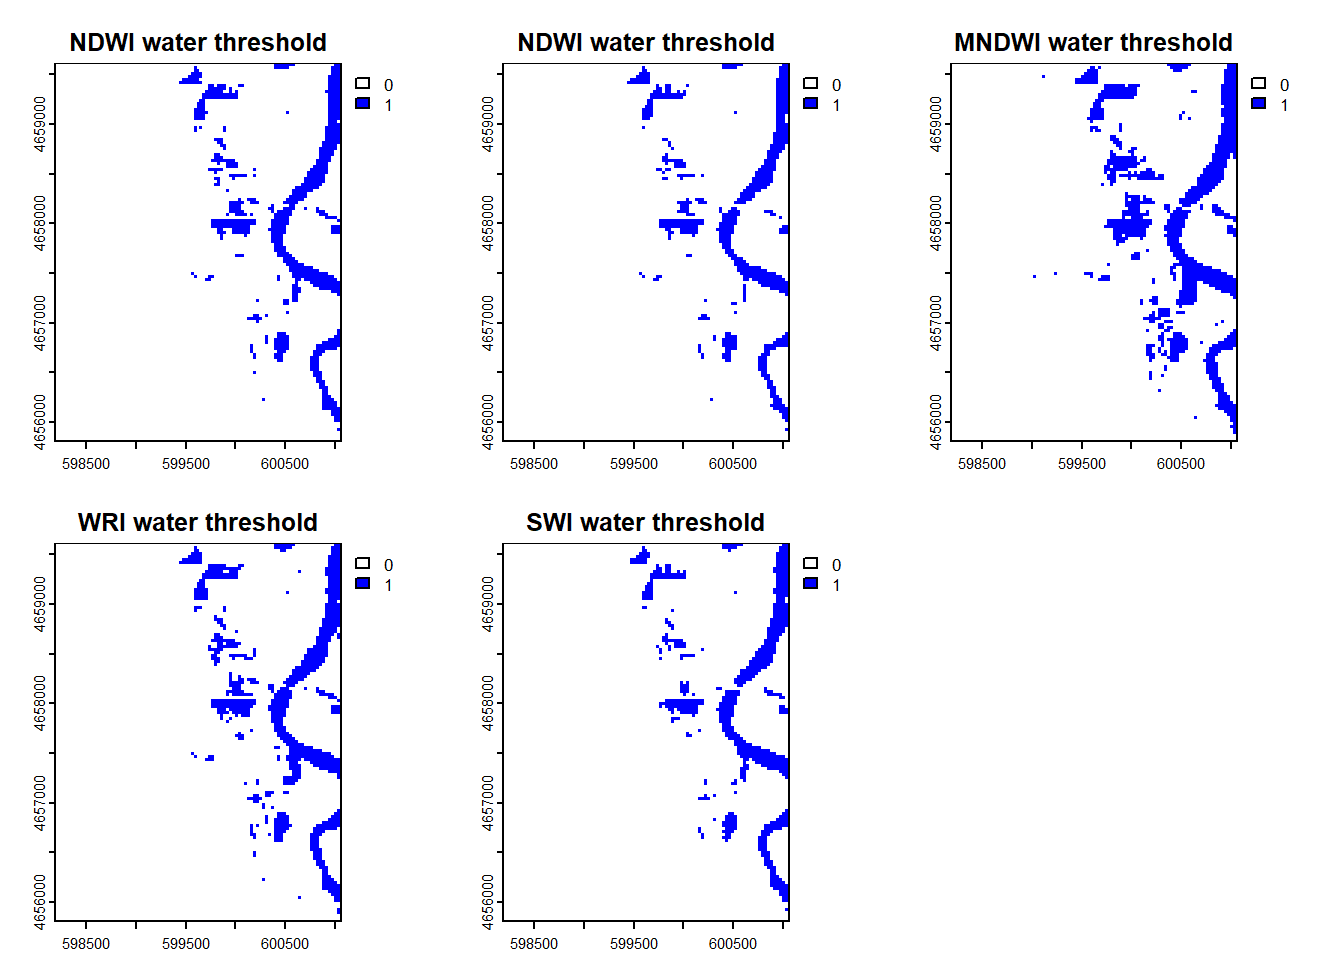
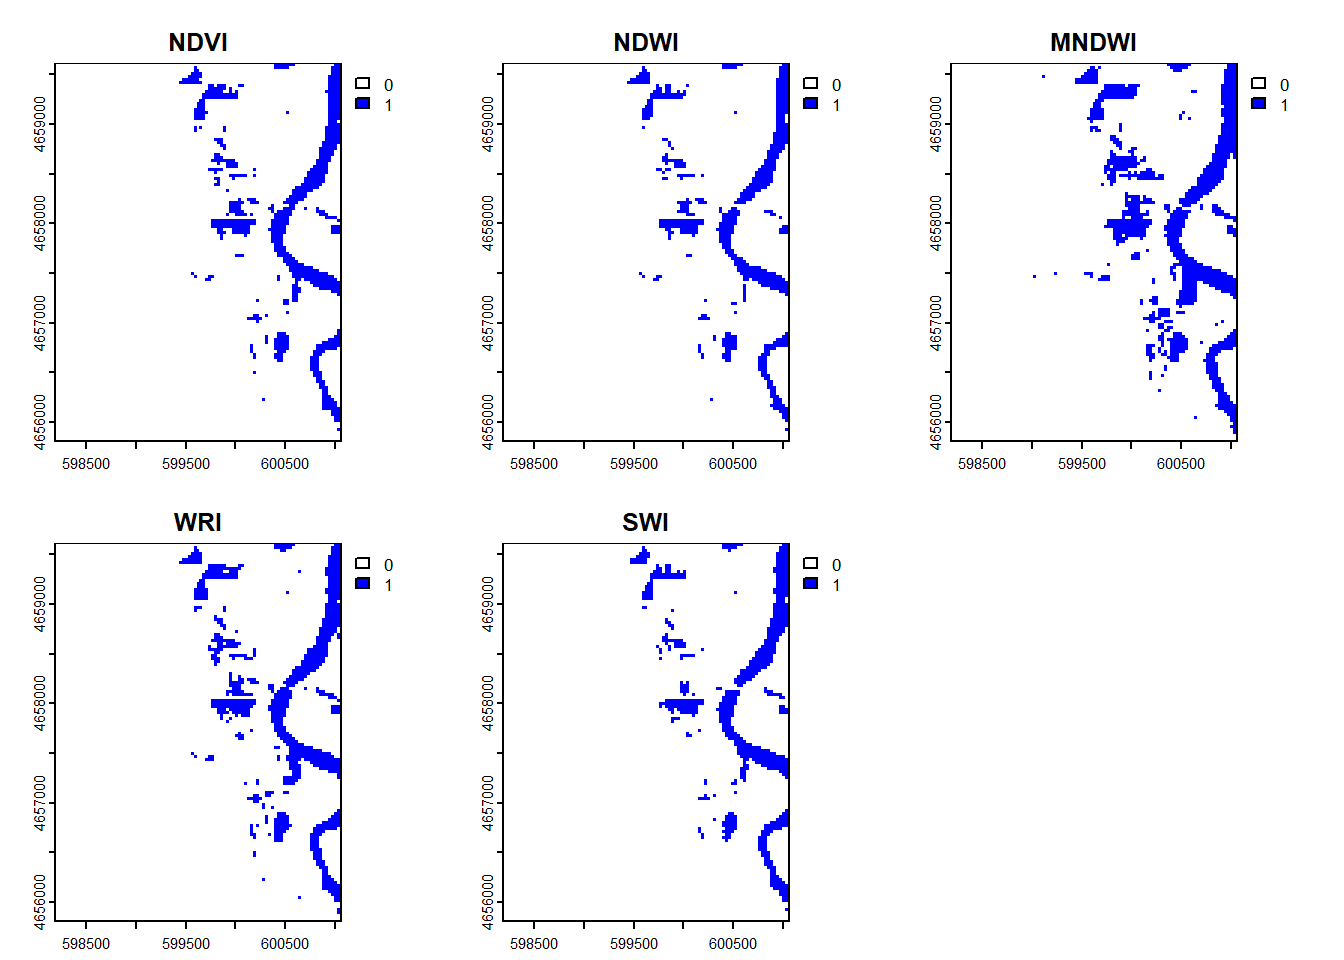
lab 4 commit

diff --git a/docs/lab-04.html b/docs/lab-04.html
@@ -167,22 +167,6 @@ pre > code.sourceCode > span > a:first-child::before { text-decoration: underlin
     <a class="nav-link" href="./index.html"> 
 <span class="menu-text">Home</span></a>
   </li>  
-  <li class="nav-item">
-    <a class="nav-link" href="./lab-01.html"> 
-<span class="menu-text">Lab 1 - COVID Trends</span></a>
-  </li>  
-  <li class="nav-item">
-    <a class="nav-link" href="./lab-02.html"> 
-<span class="menu-text">Lab 2 - Distances and Projections</span></a>
-  </li>  
-  <li class="nav-item">
-    <a class="nav-link" href="./lab-03.html"> 
-<span class="menu-text">Lab 3 - Tessellations, Point-in-Polygon</span></a>
-  </li>  
-  <li class="nav-item">
-    <a class="nav-link active" href="./lab-04.html" aria-current="page"> 
-<span class="menu-text">Lab 4 - Rasters &amp; Remote Sensing</span></a>
-  </li>  
 </ul>
           </div> <!-- /navcollapse -->
             <div class="quarto-navbar-tools">
@@ -297,16 +281,16 @@ pre > code.sourceCode > span > a:first-child::before { text-decoration: underlin
 <div class="cell-output cell-output-stdout">
 <pre><code>###Items
 - features (250 item(s)):
-  - LC09_L2SR_083075_20250426_02_T1
-  - LC09_L2SR_083074_20250426_02_T1
-  - LC09_L2SR_083073_20250426_02_T1
-  - LC09_L2SR_083069_20250426_02_T1
-  - LC09_L2SR_083068_20250426_02_T1
-  - LC09_L2SR_083067_20250426_02_T1
-  - LC09_L2SR_083056_20250426_02_T1
-  - LC09_L2SR_083055_20250426_02_T2
-  - LC09_L2SR_083054_20250426_02_T1
-  - LC09_L2SR_083053_20250426_02_T1
+  - LC09_L2SP_081244_20250428_02_T1
+  - LC09_L2SR_081076_20250428_02_T1
+  - LC09_L2SR_081075_20250428_02_T1
+  - LC09_L2SR_081074_20250428_02_T1
+  - LC09_L2SR_081073_20250428_02_T2
+  - LC09_L2SR_081072_20250428_02_T1
+  - LC09_L2SR_081071_20250428_02_T1
+  - LC09_L2SR_081070_20250428_02_T1
+  - LC09_L2SR_081069_20250428_02_T1
+  - LC09_L2SR_081068_20250428_02_T1
   - ... with 240 more feature(s).
 - assets: 
 ang, atran, blue, cdist, coastal, drad, emis, emsd, green, lwir11, mtl.json, mtl.txt, mtl.xml, nir08, qa, qa_aerosol, qa_pixel, qa_radsat, red, rendered_preview, swir16, swir22, tilejson, trad, urad
@@ -657,7 +641,7 @@ names       : coastal, blue, green, red, nir08, swir16 </code></pre>
 <summary>Code</summary>
 <div class="sourceCode cell-code" id="cb31"><pre class="sourceCode r code-with-copy"><code class="sourceCode r"><span id="cb31-1"><a href="#cb31-1" aria-hidden="true" tabindex="-1"></a>binary_stack <span class="ot">&lt;-</span> <span class="fu">c</span>(NDVI_t, NDWI_t, MNDWI_t, WRI_t, SWI_t)</span>
 <span id="cb31-2"><a href="#cb31-2" aria-hidden="true" tabindex="-1"></a></span>
-<span id="cb31-3"><a href="#cb31-3" aria-hidden="true" tabindex="-1"></a><span class="fu">names</span>(binary_stack) <span class="ot">&lt;-</span> <span class="fu">c</span>(<span class="st">"NDWI water threshold"</span>, <span class="st">"NDWI water threshold"</span>, <span class="st">"MNDWI water threshold"</span>, <span class="st">"WRI water threshold"</span>, <span class="st">"SWI water threshold"</span>)</span>
+<span id="cb31-3"><a href="#cb31-3" aria-hidden="true" tabindex="-1"></a><span class="fu">names</span>(binary_stack) <span class="ot">&lt;-</span> <span class="fu">c</span>(<span class="st">"NDVI"</span>, <span class="st">"NDWI"</span>, <span class="st">"MNDWI"</span>, <span class="st">"WRI"</span>, <span class="st">"SWI"</span>)</span>
 <span id="cb31-4"><a href="#cb31-4" aria-hidden="true" tabindex="-1"></a></span>
 <span id="cb31-5"><a href="#cb31-5" aria-hidden="true" tabindex="-1"></a>binary_stack <span class="ot">&lt;-</span> <span class="fu">app</span>(binary_stack, <span class="at">fun =</span> <span class="cf">function</span>(x) <span class="fu">ifelse</span>(<span class="fu">is.na</span>(x), <span class="dv">0</span>, x))</span>
 <span id="cb31-6"><a href="#cb31-6" aria-hidden="true" tabindex="-1"></a></span>
@@ -675,6 +659,7 @@ names       : coastal, blue, green, red, nir08, swir16 </code></pre>
 <section id="step-3" class="level3">
 <h3 class="anchored" data-anchor-id="step-3">Step 3</h3>
 <p>Describe the differences and similarities between the different maps</p>
+<p>MNDWI and WRI show more flooded cells than NDVI, NDWI and SWI</p>
 </section>
 </section>
 <section id="question-4" class="level2">
@@ -885,12 +870,12 @@ Warning: did not converge in 10 iterations</code></pre>
 <span id="cb48-3"><a href="#cb48-3" aria-hidden="true" tabindex="-1"></a><span class="fu">print</span>(flooded_cells)</span></code><button title="Copy to Clipboard" class="code-copy-button"><i class="bi"></i></button></pre></div>
 </details>
 <div class="cell-output cell-output-stdout">
-<pre><code>                        sum
-NDWI water threshold    926
-NDWI water threshold.1  806
-MNDWI water threshold  1335
-WRI water threshold    1062
-SWI water threshold     869</code></pre>
+<pre><code>       sum
+NDVI   926
+NDWI   806
+MNDWI 1335
+WRI   1062
+SWI    869</code></pre>
 </div>
 <details class="code-fold">
 <summary>Code</summary>
@@ -906,12 +891,12 @@ SWI water threshold     869</code></pre>
 <span id="cb50-10"><a href="#cb50-10" aria-hidden="true" tabindex="-1"></a>  <span class="at">Flooded_Area_m2 =</span> flooded_area)</span></code><button title="Copy to Clipboard" class="code-copy-button"><i class="bi"></i></button></pre></div>
 </details>
 <div class="cell-output cell-output-stdout">
-<pre><code>                   Layer Flooded_Cells Flooded_Area_m2
-1   NDWI water threshold           926          833400
-2 NDWI water threshold.1           806          725400
-3  MNDWI water threshold          1335         1201500
-4    WRI water threshold          1062          955800
-5    SWI water threshold           869          782100</code></pre>
+<pre><code>  Layer Flooded_Cells Flooded_Area_m2
+1  NDVI           926          833400
+2  NDWI           806          725400
+3 MNDWI          1335         1201500
+4   WRI          1062          955800
+5   SWI           869          782100</code></pre>
 </div>
 </div>
 <ul>
